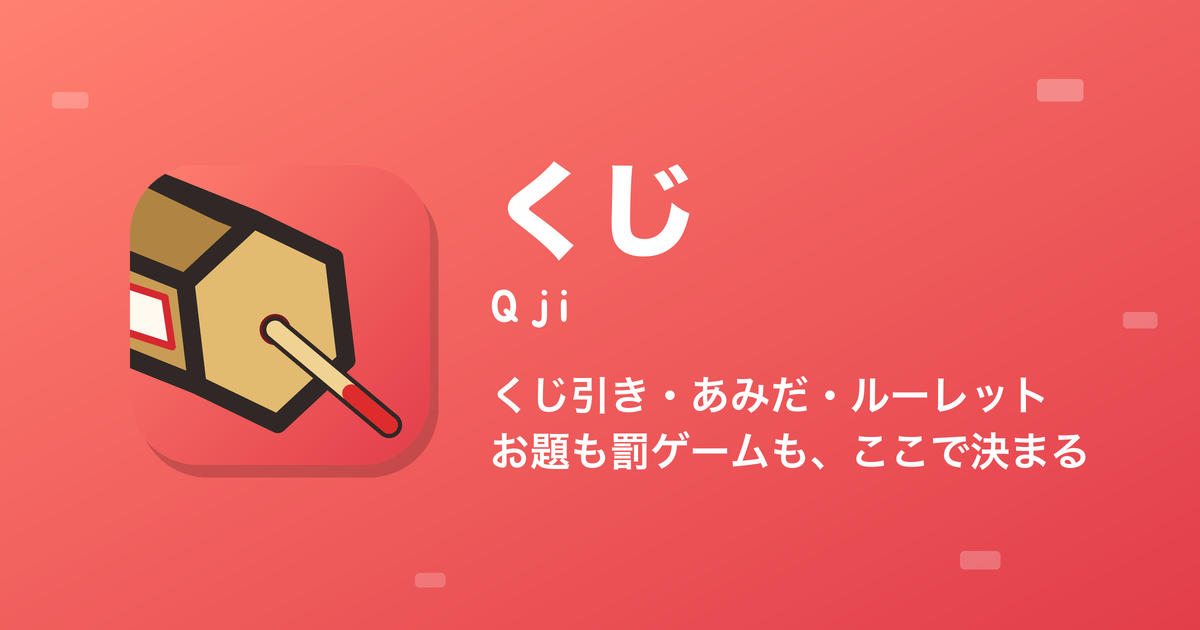
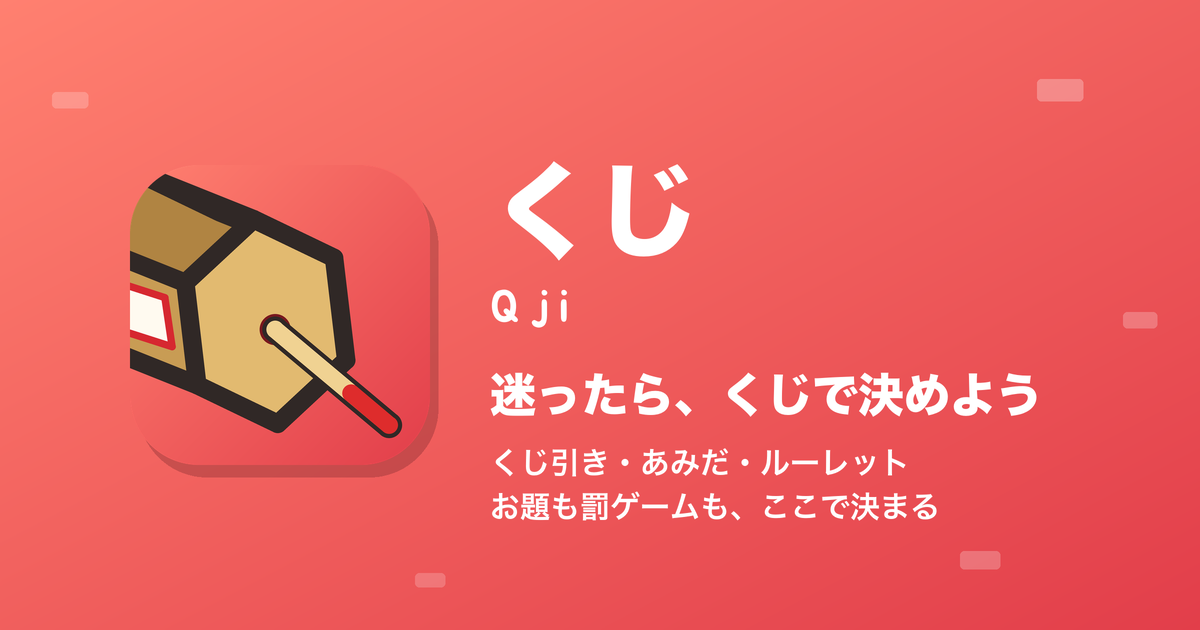
[add] キャッチコピー「迷ったら、くじで決めよう」を見出しの下と OGP に入れる

Changed region(s): [[0.4008, 0.573, 0.925, 0.754], [0.4008, 0.7841, 0.8017, 0.8444]]

diff --git a/index.html b/index.html
@@ -24,7 +24,7 @@
 <link rel="manifest" href="manifest.webmanifest">
 <link rel="preconnect" href="https://fonts.googleapis.com">
 <link href="https://fonts.googleapis.com/css2?family=M+PLUS+Rounded+1c:wght@400;700;800&display=swap" rel="stylesheet">
-<link rel="stylesheet" href="style.css?v=6">
+<link rel="stylesheet" href="style.css?v=7">
 </head>
 <body>
 <main class="wrap">
@@ -33,6 +33,7 @@
     <h1 class="brand-name"><img class="brand-icon" src="icon.svg" alt="" width="30" height="30">くじ</h1>
     <img class="brand-logo" src="logo.svg" alt="Qji" width="40" height="28">
   </header>
+  <p class="brand-copy">迷ったら、くじで決めよう</p>
   <p class="lead tool-only">当番・順番・チーム分け・お題・罰ゲーム。<br>その場で公平に決めて、LINE で送れます。</p>
 
   <!-- 決め方（モード）。押すと下の入力が切り替わる -->

diff --git a/style.css b/style.css
@@ -293,3 +293,6 @@ textarea:focus, input:focus, select:focus { outline: none; border-color: var(--a
 @media (prefers-reduced-motion: reduce) {
   .result, .wheel-spin { animation: none; transition: none; }
 }
+
+/* キャッチコピー（見出しの行のすぐ下。おくるんの「つくって、おくるん」と同じ役目） */
+.brand-copy { margin: -6px 2px 8px; color: #E23E4A; font-size: 13px; font-weight: 800; line-height: 1.4; letter-spacing: 0.02em; }

diff --git a/tools/icon.py b/tools/icon.py
@@ -189,7 +189,7 @@ def main():
     BRAND.write_icons(ROOT, shapes)
     logo, ratio = logo_svg()
     (ROOT / "logo.svg").write_text(logo, encoding="utf-8")
-    BRAND.write_ogp(ROOT / "ogp.png", shapes, "くじ", "Qji", ["くじ引き・あみだ・ルーレット", "お題も罰ゲームも、ここで決まる"], decorate)
+    BRAND.write_ogp(ROOT / "ogp.png", shapes, "くじ", "Qji", ["くじ引き・あみだ・ルーレット", "お題も罰ゲームも、ここで決まる"], decorate, copy="迷ったら、くじで決めよう")
     print(f"アイコン・logo.svg（高さ 28px なら幅 {28 * ratio:.0f}px）・ogp.png を書き出しました")
 
 
